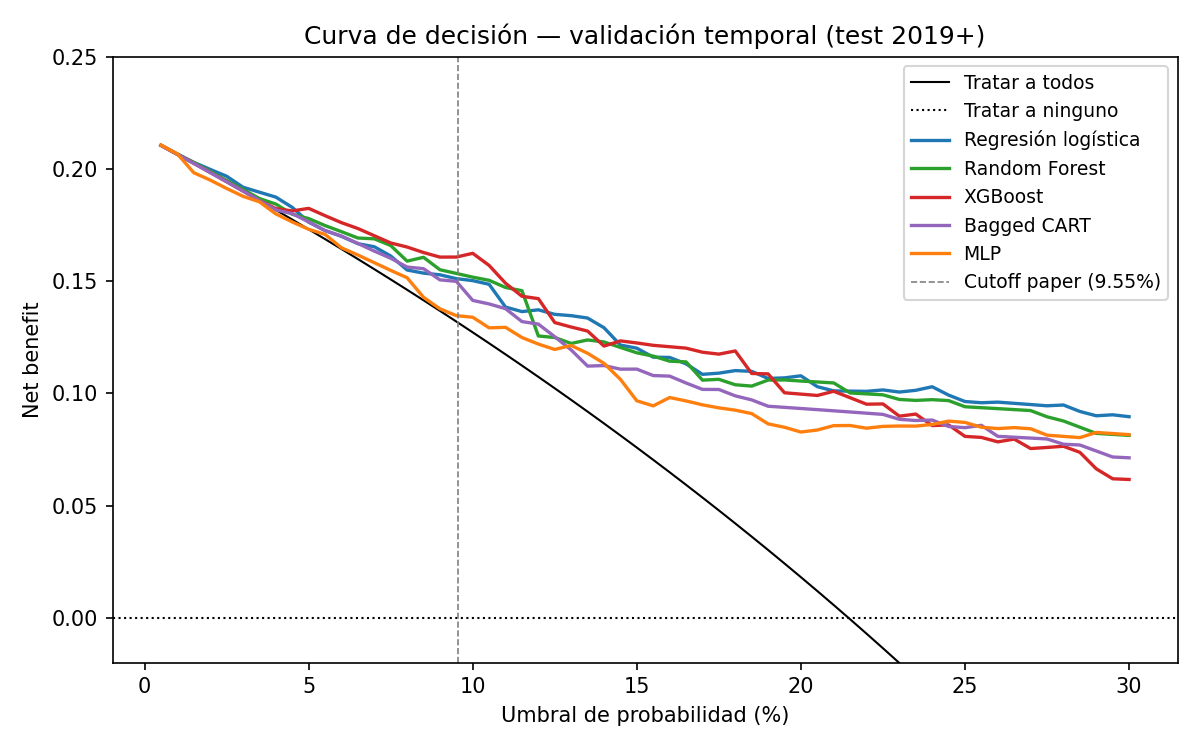
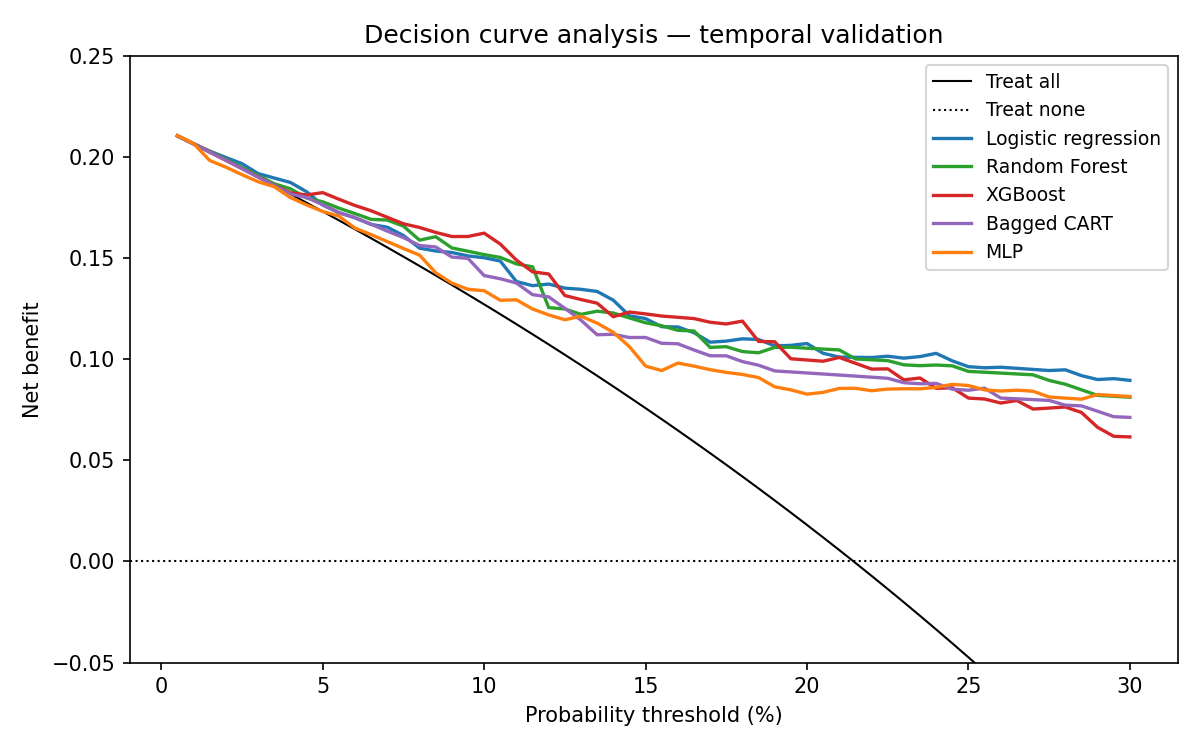
Translate documentation and figures to English; update citation to PLOS Digital Health; link Zenodo dataset DOI
Addresses reviewer request (PDIG-D-26-00938, R5): English docstrings for all analysis scripts; English axis labels and legends in ROC, calibration, decision-curve and SHAP figures; README updated with the PLOS Digital Health citation and the minimal anonymised dataset DOI (10.5281/zenodo.22111356); data/README updated with the public dataset policy.

diff --git a/src/13_missing_y_imputacion.py b/src/13_missing_y_imputacion.py
@@ -1,25 +1,12 @@
 """
 13_missing_y_imputacion.py
 --------------------------
-Análisis exhaustivo de datos faltantes y análisis de sensibilidad por
-imputación múltiple (recomendaciones SciSpace, Acción 2).
-
-  A. PROPORCIÓN DE MISSING POR VARIABLE
-     y prueba de Little para MCAR (asociación entre patrón de missing
-     y el outcome / predictores no missing).
-
-  B. IMPUTACIÓN MÚLTIPLE (MICE) m=20
-     - Re-entrenar la regresión logística sobre cada conjunto imputado
-       restringido a la cohorte de entrenamiento (cirugías < 2019).
-     - Evaluar sobre el conjunto de prueba (cirugías >= 2019),
-       imputando el test de manera independiente con el mismo
-       imputador.
-     - Promediar probabilidades entre imputaciones (regla de Rubin
-       para predicción) y reportar AUC/Brier en test.
-
-  Salidas:
-     analisis/resultados_temporal/missingness_summary.csv
-     analisis/resultados_temporal/imputacion_multiple_resultado.csv
+Missing-data analysis and multiple-imputation sensitivity analysis:
+(A) missingness per variable and association of missingness patterns
+with the outcome; (B) MICE (m=20, IterativeImputer with BayesianRidge,
+sample_posterior=True): models re-trained on each imputed training set,
+evaluated on the imputed test set, predictions pooled across imputations
+(Rubin's rule for prediction).
 """
 
 from pathlib import Path

diff --git a/src/15_shap_importance.py b/src/15_shap_importance.py
@@ -1,23 +1,11 @@
 """
 15_shap_importance.py
 ---------------------
-Importancia de variables vía SHAP para los dos mejores modelos ML
-(Random Forest y XGBoost) sobre la cohorte temporal de test.
-
-Objetivo (orientado a JCE):
-   - Caracterizar qué variables explican las predicciones ML.
-   - Comparar el ranking SHAP (ML) con los coeficientes estandarizados
-     de la regresión logística publicada.
-   - Si los rankings son similares y los efectos son sustancialmente
-     monótonos, eso refuerza la conclusión del artículo: el ML no está
-     capturando interacciones ni no-linealidades ocultas que la RL haya
-     pasado por alto.
-
-Salidas:
-   - figuras_temporal/figura_shap_summary.png  (barras: |SHAP| medio
-     por variable, paneles RF y XGB)
-   - figuras_temporal/figura_shap_beeswarm.png (beeswarm XGBoost en test)
-   - resultados_temporal/shap_importance_ranking.csv  (rankings comparados)
+SHAP variable importance for the best-performing ML models (Random
+Forest and XGBoost) on the temporal test cohort, compared descriptively
+with the standardised logistic-regression coefficients. Broadly similar
+global rankings support the conclusion that the ML models are not
+exploiting hidden interactions or non-linearities missed by the LR.
 """
 
 from pathlib import Path

diff --git a/src/12_linealidad_interacciones.py b/src/12_linealidad_interacciones.py
@@ -1,23 +1,10 @@
 """
 12_linealidad_interacciones.py
 ------------------------------
-Pruebas de supuestos para la regresión logística (recomendado por
-revisores SciSpace, Acción 5–6 del informe).
-
-  A. LINEALIDAD DE LA EDAD
-     Compara mediante prueba de razón de verosimilitud (LRT):
-        modelo_lineal:    age + age2 (especificación del paper)
-        modelo_rcs:       age con splines cúbicos restringidos (4 nodos)
-     Un p > 0.05 favorece la especificación lineal/cuadrática.
-
-  B. INTERACCIONES DE DOS VÍAS
-     Para cada par de predictores plausibles a priori (ej. edad×sexo,
-     microcalcificaciones×hipoecoico, TSH bajo×nódulo sólido), añade
-     el término de interacción al modelo base completo y compara por
-     LRT. Reporta p-valor (no corregido y Bonferroni).
-
-Salida:
-    analisis/resultados_temporal/linealidad_interacciones.csv
+Model-specification checks for the logistic regression: (A) linearity of
+age via likelihood-ratio test comparing the paper specification
+(age + age^2) against restricted cubic splines; (B) pre-specified
+two-way interactions.
 """
 
 from pathlib import Path

diff --git a/src/08_temporal_split.py b/src/08_temporal_split.py
@@ -1,18 +1,15 @@
 """
 08_temporal_split.py
 --------------------
-Validación temporal honesta:
-    - Train: cirugías < 2019  (n=432)
-    - Test:  cirugías >= 2019 (n=429)
-
-Para cada modelo:
-    1. Tuneo de hiperparámetros con CV interna 5-fold SOLO en train
-       (no se mira test en ningún momento).
-    2. Ajuste final en train completo.
-    3. Predicción de probabilidades en test.
-    4. Métricas con utils_cv.evaluate().
-
-Guarda todo en analisis/resultados_temporal/.
+Strict temporal validation:
+    - Train: surgeries before 2019 (n=432)
+    - Test:  surgeries 2019 onwards (n=429)
+For each model: (1) hyperparameter tuning with internal 5-fold CV on the
+training cohort only; (2) final fit on the full training cohort; (3)
+probability predictions on the test cohort; (4) metrics via
+utils_cv.evaluate(). Non-linear models are calibrated with isotonic
+regression learned from out-of-fold predictions (CalibratedClassifierCV,
+cv=5). Outputs to analisis/resultados_temporal/.
 """
 
 from pathlib import Path

diff --git a/src/11_pruebas_estadisticas.py b/src/11_pruebas_estadisticas.py
@@ -1,18 +1,11 @@
 """
 11_pruebas_estadisticas.py
 --------------------------
-Pruebas estadísticas formales recomendadas por los revisores
-(SciSpace meta-review):
-
-    1. Test de DeLong para comparación pareada de AUC entre cada
-       modelo de ML y la regresión logística (baseline) en el
-       conjunto de prueba (cohorte 2019+).
-    2. Bootstrap pareado (2000 réplicas, mismo paciente en ambos
-       modelos) para diferencias en Brier score.
-    3. Bootstrap pareado para diferencias en pendiente de calibración.
-
-Salida:
-    analisis/resultados_temporal/pruebas_estadisticas.csv
+Formal statistical tests: (1) paired DeLong test of each ML model vs the
+logistic-regression baseline on the temporal test cohort; (2) paired
+bootstrap (2,000 replicates) for Brier-score differences; (3) paired
+bootstrap for calibration-slope differences.
+Output: analisis/resultados_temporal/pruebas_estadisticas.csv
 """
 
 from pathlib import Path

diff --git a/src/01_preparar_dataset.py b/src/01_preparar_dataset.py
@@ -1,12 +1,11 @@
 """
 01_preparar_dataset.py
 ----------------------
-Lee Calculadora 2024.sav, filtra CIRUGIA=1, selecciona las 13 variables del
-modelo publicado + outcome (TODOSCA), construye dummies de TSH y guarda el
-dataset analítico como CSV (para Python) y RDS-compatible vía feather (opcional).
-
-Ejecutar desde la carpeta del proyecto:
-    python analisis/01_preparar_dataset.py
+Builds the analysis dataset from the SPSS registry: applies the surgical
+filter (CIRUGIA=1), maps and renames the fourteen model terms of the
+published logistic-regression specification, recodes the outcome, and
+writes the full, complete-case and temporal-cohort CSVs.
+(Filename kept in Spanish for provenance with the original pipeline.)
 """
 
 from pathlib import Path

diff --git a/src/10_tabla1_comparacion_cohortes.py b/src/10_tabla1_comparacion_cohortes.py
@@ -1,13 +1,10 @@
 """
 10_tabla1_comparacion_cohortes.py
 ---------------------------------
-Tabla 1 estilo paper: características clínicas comparadas entre la
-cohorte de entrenamiento (cirugía < 2019) y la cohorte de prueba
-(cirugía >= 2019), con prueba estadística para cada variable.
-
-- Categóricas: chi-cuadrado (o Fisher si alguna celda < 5).
-- Edad (continua): Shapiro-Wilk para normalidad → t de Student
-  o Mann-Whitney U según resultado.
+Paper-style Table 1: clinical characteristics compared between the
+training (surgery before 2019) and test (2019 onwards) cohorts, with a
+statistical test per variable (chi-square/Fisher for categorical;
+Shapiro-Wilk then t-test or Mann-Whitney U for age).
 """
 
 from pathlib import Path

diff --git a/src/utils_cv.py b/src/utils_cv.py
@@ -1,11 +1,10 @@
 """
 utils_cv.py
 -----------
-Esquema de validación cruzada y métricas comunes a todos los modelos.
-
-Garantiza que todos los modelos se evalúen sobre EXACTAMENTE los mismos
-folds (misma semilla, mismo número de splits y repeats) y se reporten
-con las mismas métricas para una comparación honesta.
+Shared cross-validation scheme and metrics for all models. Guarantees
+that every model is evaluated on EXACTLY the same folds (same seed, same
+number of splits and repeats) and reported with the same metrics for an
+honest comparison.
 """
 
 from __future__ import annotations

diff --git a/src/02_baseline_logistic.py b/src/02_baseline_logistic.py
@@ -1,9 +1,9 @@
 """
 02_baseline_logistic.py
 -----------------------
-Baseline: regresión logística con los 13 predictores del modelo publicado.
-Usa el esquema de CV común (utils_cv.py) para que las métricas sean
-directamente comparables con los modelos de ML.
+Baseline: logistic regression with the published predictor specification.
+Uses the shared cross-validation scheme (utils_cv.py) so that metrics are
+directly comparable with the ML models.
 """
 
 from pathlib import Path

diff --git a/src/09_comparar_temporal.py b/src/09_comparar_temporal.py
@@ -1,9 +1,10 @@
 """
 09_comparar_temporal.py
 -----------------------
-Equivalente a 07_comparar_modelos.py pero leyendo
-analisis/resultados_temporal/ (modelos entrenados en pre-2019,
-evaluados en cohorte 2019+).
+Primary temporal comparison: reads analisis/resultados_temporal/ (models
+trained on the pre-2019 cohort, evaluated on the 2019+ cohort) and
+produces the comparison table, ROC curves, calibration curves and
+decision curves.
 """
 
 from pathlib import Path

diff --git a/src/14_consort_flowchart.py b/src/14_consort_flowchart.py
@@ -1,10 +1,8 @@
 """
 14_consort_flowchart.py
 -----------------------
-Diagrama de flujo estilo CONSORT/TRIPOD-AI para el manuscrito
-(recomendación SciSpace, Acción Prioridad 1).
-
-Salida: analisis/figuras_temporal/figure1_consort.png
+CONSORT/TRIPOD+AI-style patient-flow diagram for the manuscript.
+Output: analisis/figuras_temporal/figure1_consort.png
 """
 
 from pathlib import Path

diff --git a/README.md b/README.md
@@ -8,8 +8,12 @@
 Code, aggregate metrics and figures supporting the manuscript
 
 > **Fernández Alba JJ, Carral San Laureano F, Jiménez Millán AI, González Macías C.**
-> *Machine learning versus logistic regression for malignancy risk in thyroid nodules: a temporal validation study.*
-> Journal of Clinical Epidemiology — in submission, 2026.
+> *Logistic Regression Withstands Comparison with Machine Learning for Thyroid Nodule Malignancy Risk Stratification Under Strict Temporal Validation.*
+> PLOS Digital Health — manuscript PDIG-D-26-00938, under revision, 2026.
+
+**Open data:** the minimal anonymised patient-level dataset (complete-case n=861 and with-missing n=981, with codebook) is published on Zenodo under CC BY 4.0: [doi:10.5281/zenodo.22111356](https://doi.org/10.5281/zenodo.22111356).
+
+*Note on file names:* script filenames are kept in their original Spanish for provenance with the registered analysis pipeline; each script carries an English docstring describing its function.
 
 This repository accompanies a temporal-validation study comparing five classifiers for the binary outcome **"malignancy at definitive histology"** in thyroid nodules with indeterminate or suspicious cytology. The five models compared are: penalised logistic regression (the baseline, identical to the originally published model), random forest, XGBoost, bagged CART, and a multi-layer perceptron.
 
